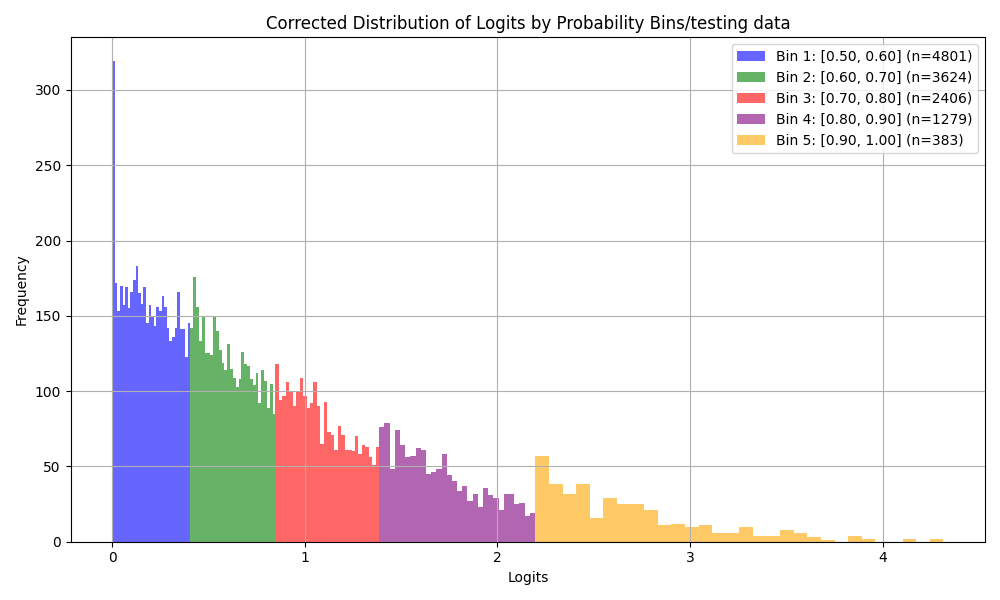
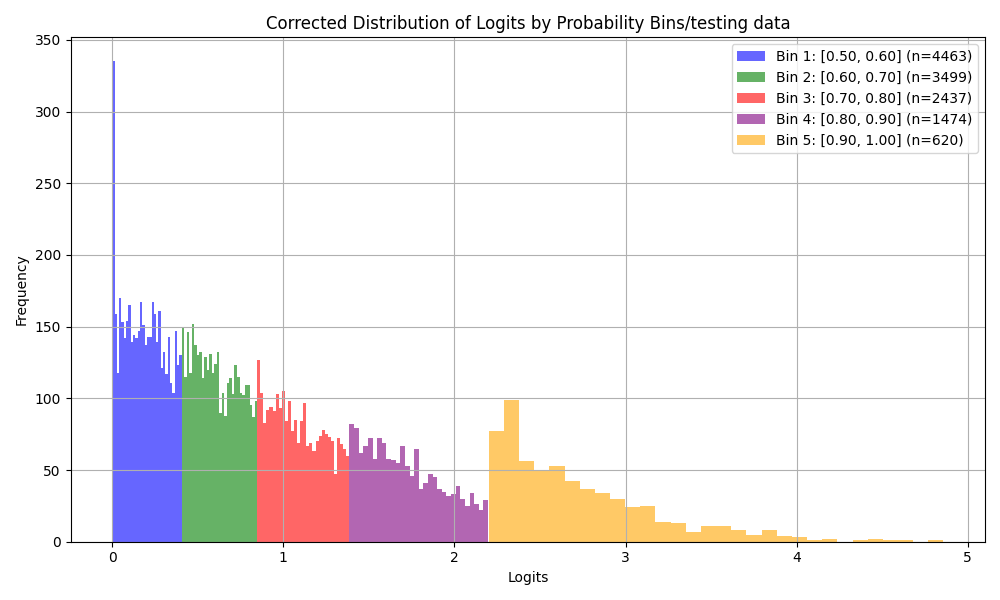
update

diff --git a/reliability_diagram.py b/reliability_diagram.py
@@ -2,7 +2,7 @@ import torch
 import json
 import matplotlib.pyplot as plt
 # Load logits from JSON
-file = 'logits_scores_._hh_openllama3b_temp1_epoch1_final_checkpoint_test.json'
+file = 'logits_scores_._right_open_llama_3b_rlhf_rm_bin_temperature_2e-05__temperature_last_checkpoint_test.json'
 with open(file, 'r') as file:
     data = json.load(file)
 logits_tensor = torch.tensor(data['logits'])
